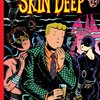
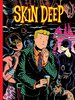
fix thumbnail issue for comics covers

diff --git a/app/models/comic.rb b/app/models/comic.rb
@@ -5,7 +5,7 @@ class Comic < ActiveRecord::Base
   validates :title, :presence => true
   validates :description, :presence => true
 
-  has_attached_file :cover, :styles => { :medium => "500x500>", :thumb => "100x100" }, :default_url => "/img/:style/missing.png"
+  has_attached_file :cover, :styles => { :medium => "500x500>", :thumb => "100x100>" }, :default_url => "/img/:style/missing.png"
 
   validates_attachment_content_type :cover, :content_type => /\Aimage\/.*\Z/
 end

diff --git a/app/models/page.rb b/app/models/page.rb
@@ -2,6 +2,6 @@ class Page < ActiveRecord::Base
   belongs_to :comic
   validates :number, :presence => true
 
-  has_attached_file :image, :styles => { :medium => "500x500>", :thumb => "100x100" }, :default_url => "/img/:style/missing.png"
+  has_attached_file :image, :styles => { :medium => "500x500>", :thumb => "100x100>" }, :default_url => "/img/:style/missing.png"
   validates_attachment_content_type :avatar, :content_type => /\Aimage\/.*\Z/
 end
